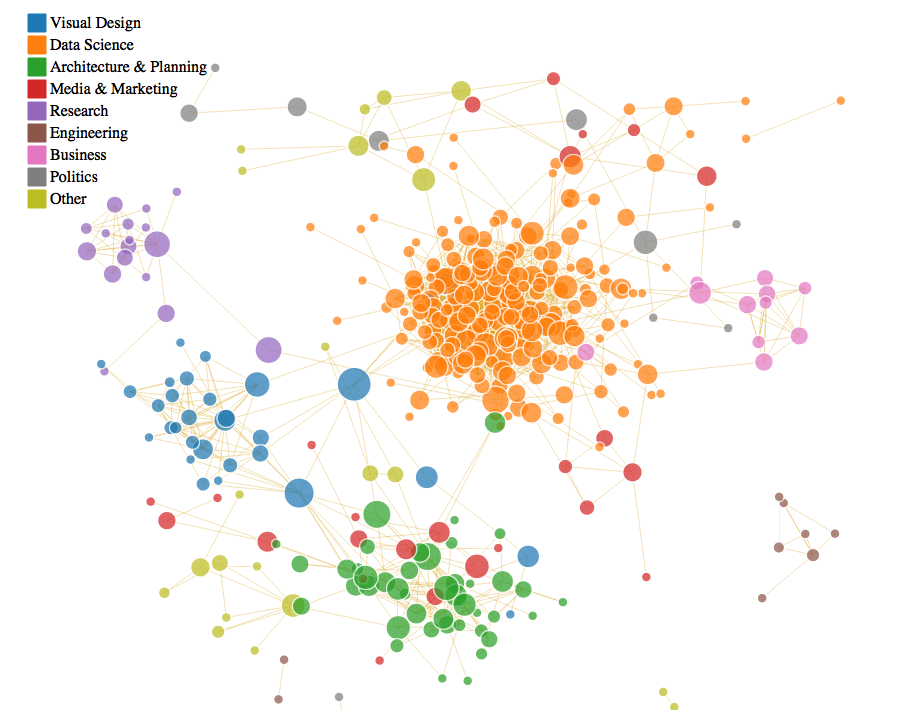
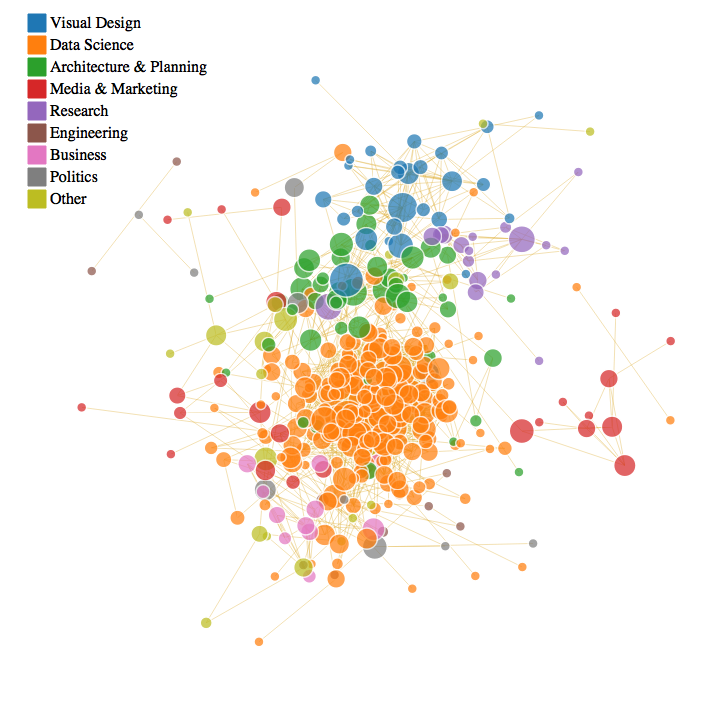
update

diff --git a/README.md b/README.md
@@ -1,10 +1,11 @@
 <!-- README.md is generated from README.Rmd. Please edit that file -->
-### Visualize Your LinkedIn Network
+Visualize Your LinkedIn Network
+===============================
 
 This repository is a tutorial demonstrating how to use your LinkedIn data to visualize your professional-social network in R and D3.JS.
 
 1. Install and Load Libraries
-=============================
+-----------------------------
 
 ``` r
 
@@ -15,17 +16,14 @@ library("igraph")
 ```
 
 2. Read in your LinkedIn Data
-=============================
+-----------------------------
 
 ``` r
 l <- fromJSON("https://raw.githubusercontent.com/michaeljules/social-network-viz/master/data/data.js",flatten=TRUE)
 ```
 
-3. Translate Data to Network Object
-===================================
-
-Adjacency Matrix
-----------------
+3. Translate Data to Adjacency Matrix then Network Object
+---------------------------------------------------------
 
 ``` r
 networkData <- l$reducedMatrix
@@ -36,7 +34,7 @@ g <- graph.adjacency(networkData,mode="undirected")
 ```
 
 4. Add Node Attributes to the Network:
-======================================
+--------------------------------------
 
 ``` r
 V(g)$industry <- l$publicConnections$industry[1:499]
@@ -48,7 +46,7 @@ V(g)$headline <- l$publicConnections$headline[1:499]
 ```
 
 5. Calculate Network Centrality Scores For Each Node
-====================================================
+----------------------------------------------------
 
 ``` r
 b <- betweenness(g, v=V(g), directed = FALSE, weights = NULL,
@@ -58,7 +56,7 @@ V(g)$betweenness <- sqrt(b)
 ```
 
 6. Remove Isolates From Network
-===============================
+-------------------------------
 
 ``` r
 #identify isolated nodes
@@ -69,7 +67,7 @@ g <- delete.vertices(g, bad.vs)
 ```
 
 7. Identify Network Communities
-===============================
+-------------------------------
 
 ``` r
 c3 <- cluster_label_prop(g)
@@ -109,7 +107,7 @@ V(g)$c3 <- c3$group
 ```
 
 8. Translate Network Graph to D3
-================================
+--------------------------------
 
 ``` r
 library(networkD3)
@@ -130,13 +128,13 @@ g_d3$nodes$c3 <- V(g)$c3
 
 net <- forceNetwork(Links=g_d3$links,
              Nodes=g_d3$nodes,
-             width=900,
+             width=700,
              height=700,
              NodeID = 'headline', 
              Group  = 'c3',
              radiusCalculation = JS("Math.sqrt(d.nodesize)+5"),
              Nodesize = 'betweenness',
-             charge = -40,
+             charge = -30,
              linkWidth = .4,
              colourScale = JS("d3.scale.category10()"),
              linkColour = "goldenrod",
@@ -150,6 +148,11 @@ net <- forceNetwork(Links=g_d3$links,
 ```
 
 9. Example: My LinkedIn Network
-===============================
+-------------------------------
 
 ![](README-network-1.png)
+
+10. Concluding
+--------------
+
+I hope you found this exercise useful. You can contact me at michael\[at\]beautifuldataviz.com for any questions or suggestions you might have, or to report any bugs in the code.
